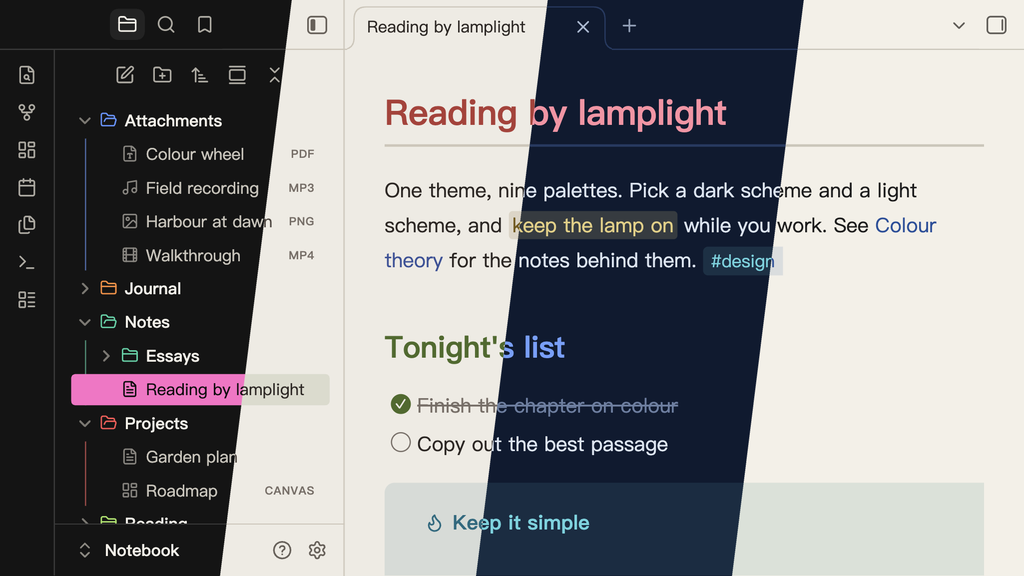
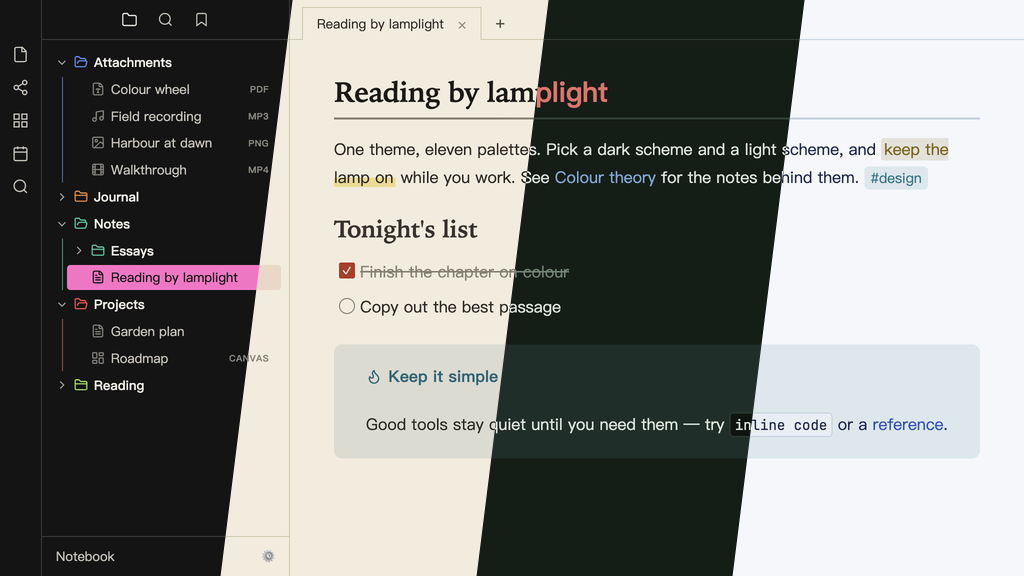
docs: upgrade showcase visuals (screenshot, shapes triptych, highlights GIF) and refresh 27-variant baseline
- Refreshed the full 27-variant .verify baseline on Obsidian 1.15.1 (0 Reading/Live
  mismatches, 0 Mermaid problems, 0 colored-highlight problems).
- Upgraded obsidian/lamplit/screenshot.png (1024x576) to showcase Tuttomondo Subway,
  Fuchun Wuyong, Walden Woods, and Big Wave Spray with updated "eleven palettes" copy.
- Added obsidian/lamplit/shapes.png (1420x488) highlighting shape differences across
  Bauhaus, Tuttomondo, and Fuchun, and embedded it in both English and Chinese READMEs.
- Rebuilt obsidian/lamplit/highlights.gif (960x540, 11 frames, 600 KB) with a rounded
  window frame, soft backdrop shadow, per-scheme corner badges, Walden/Fuchun scenes,
  and Mermaid diagrams.
- Updated scripts/publish-lamplit.sh to copy shapes.png, plus AGENTS.md and THEMES_PLAN.md.

diff --git a/THEMES_PLAN.md b/THEMES_PLAN.md
@@ -478,6 +478,15 @@ Typora 1.14.15 无法用调试端口自动检查（不接受 `--remote-debugging
 - 核验（`wd-woods,wd-herbarium`）：阅读/编辑视图 0 不一致（首次运行 `live` 的 `tdCode` 漏测，复测表格章节后 0 不一致），彩色高亮 0 问题，正文对比度 13.30 / 12.88；Pele 甘特图 `mmGanttTaskText`（1.48 / 2.30）与 `mmGanttCritText`（2.32 / 2.36）低于 3:1，系 Pele 直接把 `--mermaid-text-color` 叠在 `--mermaid-accent` / `--mermaid-critical` 上所致（同 `cp-latte`），保持原色
 - 文档与素材：新增 `typora/walden/README.md`、`README.zh-CN.md` 与 `screenshot.png`（1024×576）；根目录与 Lamplit README 中英文更新为十一套配色；`obsidian/lamplit/palettes.png` 改为 4×3 网格（前 11 格展示全部配色，第 12 格展示「27 schemes」）
 
+
+### 维护 — 27 变体全量基线与展示素材升级（2026-11-26）
+
+- 全量核验（27 个变体，Obsidian 1.15.1）刷新 `.verify` 基线：阅读/编辑视图 0 不一致，Mermaid 0 问题（仅 `cp-latte` 甘特图文字 2.81 低于 3:1，Walden 在 1.15.1 下不再触发低对比度），彩色高亮 0 问题
+- 升级 `obsidian/lamplit/screenshot.png`（1024×576 四斜切改用 Tuttomondo Subway / Fuchun Wuyong / Walden Woods / Big Wave Spray，正文更新为 `eleven palettes`）
+- 新增 `obsidian/lamplit/shapes.png`（1420×488 三联特写，并排展示 Bauhaus / Tuttomondo / Fuchun 的造型差异）并嵌入中英文 README；`scripts/publish-lamplit.sh` 同步复制 `shapes.png`
+- 重制 `obsidian/lamplit/highlights.gif`（960×540，11 帧，600 KB）：加入圆角窗口外框与柔和阴影底板、右下角方案角标，补充 Walden、Fuchun 造型与最新 Mermaid 帧
+- 更新 `agiledolphin/themes` 与 `agiledolphin/lamplit` 的 GitHub 仓库简介为 11 套配色 / 27 个方案
+
 ---
 
 ## 三、文件结构（现状）

diff --git a/AGENTS.md b/AGENTS.md
@@ -48,7 +48,7 @@ app.css (e.g. a link rule that silently recolored `a.tag`).
 ```
 themes/
 ├── obsidian/lamplit/        # theme.css + manifest.json (generated) + README.md, screenshot.png, palettes.png,
-│                            # highlights.gif (the README's animation)
+│                            # shapes.png, highlights.gif (the README's animation)
 ├── typora/<palette>/        # lamplit-<palette>-<variant>.css (one file per variant), screenshot.png,
 │                            # README.md + README.zh-CN.md (every README has a Chinese twin: change both)
 ├── shared/
@@ -221,7 +221,7 @@ Typora files are copied flat into Typora's themes directory, so relative imports
   the release; its tag must equal the manifest's version, with no `v`. Run it for every new
   Lamplit version (ask the user first: it publishes), and never edit that repository directly.
   Its READMEs and images are in `obsidian/lamplit/` (`README.md`, `README.zh-CN.md`, `screenshot.png`,
-  `palettes.png`, `highlights.gif`); `screenshot.png` stays the directory's card image;
+  `palettes.png`, `shapes.png`, `highlights.gif`); `screenshot.png` stays the directory's card image;
   the directory reads those from the main branch, so `--docs` publishes them without a release.
 
 ## Tooling

diff --git a/obsidian/lamplit/README.md b/obsidian/lamplit/README.md
@@ -34,6 +34,8 @@ Without Style Settings you get Wonderland, and no way to switch palettes.
 
 ## Features
 
+![Shape differences across Bauhaus, Tuttomondo and Fuchun](shapes.png)
+
 - **Some palettes change shape, not just color**: Bauhaus has square corners and solid highlights; Tuttomondo draws heavy outlines and hard shadows, with solid tags and highlights; Fuchun sets headings in Kaiti, draws rules and highlights like brush strokes, and stamps tags and checked tasks as cinnabar seals
 - **Same look in Reading view and Live Preview**: headings, code, tables, quotes, tags, highlights and links match
 - **File type icons** in the file explorer: notes, images, canvases, bases, PDFs, audio and video

diff --git a/README.md b/README.md
@@ -27,6 +27,10 @@ Reading by lamplight (青灯夜读). Eleven color palettes for [Obsidian](https:
 
 ![The eleven palettes, each in dark and light](obsidian/lamplit/palettes.png)
 
+Some palettes change shape, not just color — square corners in Bauhaus, bold outlines and hard shadows in Tuttomondo, Kaiti headings, brush strokes and cinnabar seals in Fuchun:
+
+![Shape differences across Bauhaus, Tuttomondo and Fuchun](obsidian/lamplit/shapes.png)
+
 Details for each platform: [Lamplit for Obsidian](obsidian/lamplit/README.md) and the Typora README linked from each palette above.
 
 ## Installation

diff --git a/obsidian/lamplit/README.zh-CN.md b/obsidian/lamplit/README.zh-CN.md
@@ -34,6 +34,8 @@
 
 ## 特性
 
+![Bauhaus、Tuttomondo 与 Fuchun 的造型差异](shapes.png)
+
 - **有些配色连形状也变**：Bauhaus 是直角和实色高亮；Tuttomondo 有粗描边和硬阴影，标签和高亮都是实心色块；Fuchun 标题用楷体，分割线和高亮如笔刷扫过，标签和已完成任务做成朱砂印章
 - **阅读视图和实时预览外观一致**：标题、代码、表格、引用、标签、高亮和链接都相同
 - **文件类型图标**：文件列表里的笔记、图片、白板、数据库、PDF、音频和视频各有图标

diff --git a/README.zh-CN.md b/README.zh-CN.md
@@ -27,6 +27,10 @@
 
 ![十一套配色的深色和浅色](obsidian/lamplit/palettes.png)
 
+有些配色连形状也变——Bauhaus 的直角与实色高亮、Tuttomondo 的粗描边与硬阴影、Fuchun 的楷体标题、飞白笔刷与朱砂印章：
+
+![Bauhaus、Tuttomondo 与 Fuchun 的造型差异](obsidian/lamplit/shapes.png)
+
 各平台的详细说明见 [Lamplit for Obsidian](obsidian/lamplit/README.zh-CN.md)，以及上表中各配色的 Typora 说明。
 
 ## 安装
